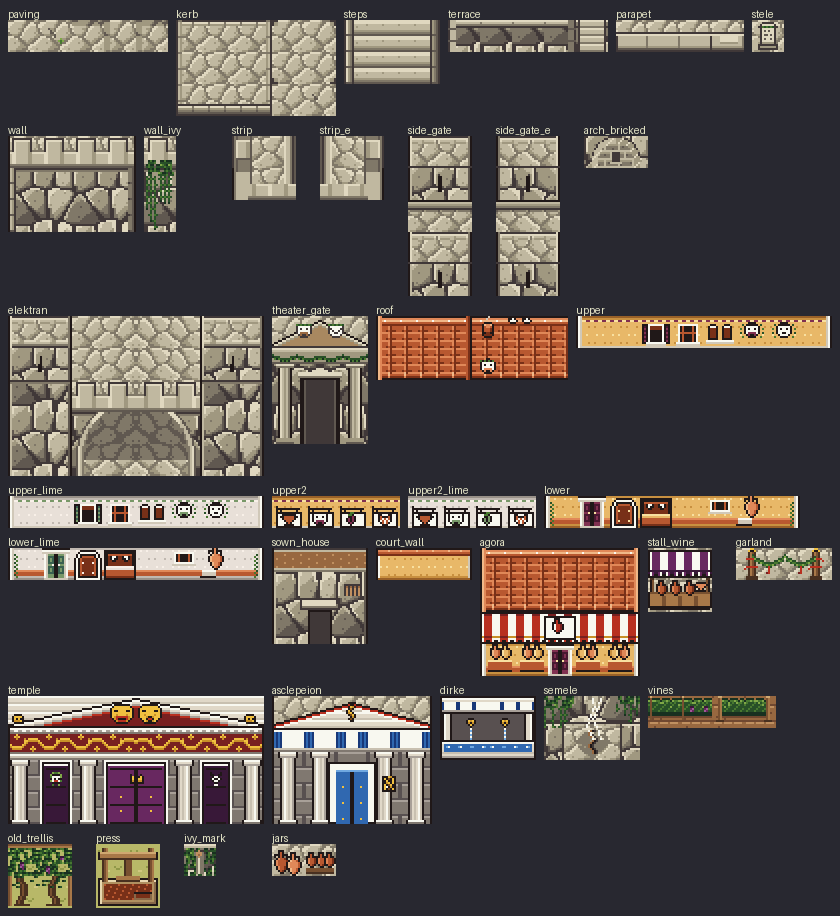
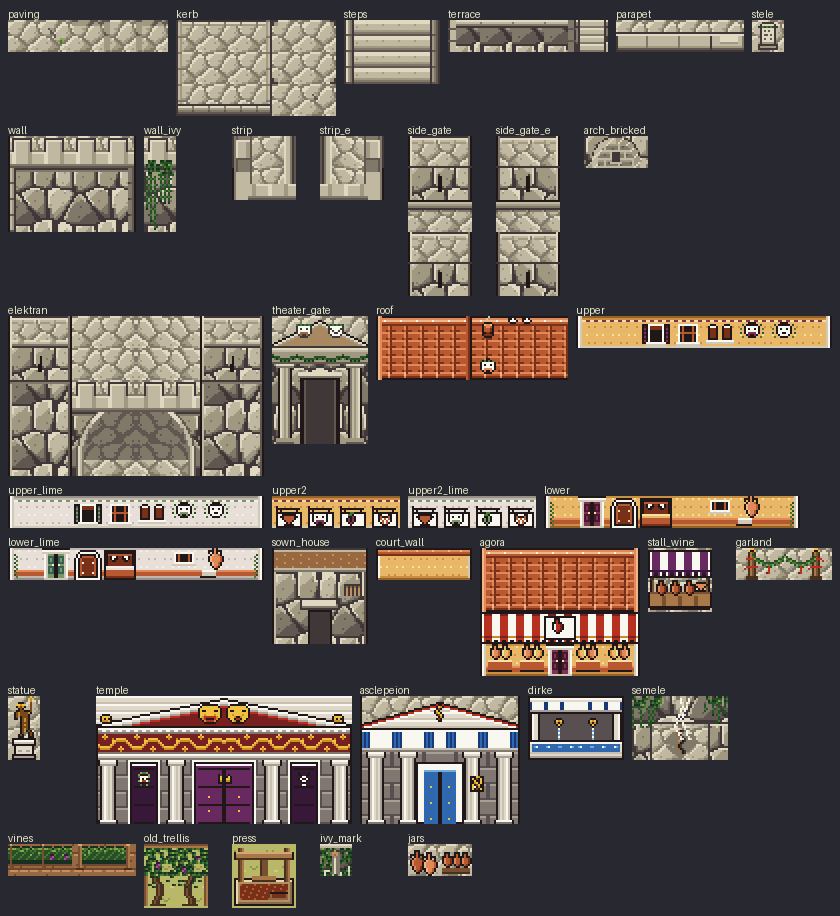
feat(map): finish Thyrsa City's passes and record its seams
The third render pass gives the square its bronze god and drops a stair that led
onto a roof; the city now uses the batch's real walkers. BUILD.md records the
Neistan and Proitid road rows for batches 2 and 7, the arrival tiles and the
hidden items still to place, and TILES_thyrsa.md the three passes and deviations.

Changed region(s): [[0.0, 0.7336, 0.9286, 1.0]]

diff --git a/tools/ichor/maps/thyrsa.py b/tools/ichor/maps/thyrsa.py
@@ -442,7 +442,6 @@ def town(g):
     g.put_part("terrace", "W", 34, 19)
     for x in range(35, 45):
         g.put("terrace", x, 19, cx=1 + x % 2, w=1)
-    g.put_part("terrace", "stair", 36, 19)
     g.put_part("terrace", "E", 45, 19)
     # Polos the old actor, and Euthykles the mask-maker, on the terrace below
     DOORS["actor"] = house(g, 35, 20, ridge=[None, None, "chimney"],
@@ -477,6 +476,7 @@ def town(g):
     g.put("agora", 31, 28)
     # ---- the square: a wine stall, garlands across the main street --------------
     g.put("stall_wine", 22, 19)
+    g.put("statue", 32, 18)                    # the god in bronze
     for y in (21, 33):
         g.put_part("garland", "post_W", 25, y)
         for x in range(26, 30):
@@ -635,27 +635,27 @@ def events():
             flag="FLAG_ICHOR_HIDE_NEISTAN_DRUM"),
         obj("LOCALID_THYRSA_PROITID_GUARD", "OBJ_EVENT_GFX_ICHOR_HOPLITE", 46, 31, S + "ProitidGuard",
             move="MOVEMENT_TYPE_FACE_LEFT"),
-        obj("LOCALID_THYRSA_THEATER_KEEPER", "OBJ_EVENT_GFX_ICHOR_MAN", 44, 18, S + "TheaterKeeper",
+        obj("LOCALID_THYRSA_THEATER_KEEPER", "OBJ_EVENT_GFX_ICHOR_HARVESTER_THYRSA", 44, 18, S + "TheaterKeeper",
             move="MOVEMENT_TYPE_FACE_LEFT"),
         obj("LOCALID_THYRSA_BEGGAR", "OBJ_EVENT_GFX_ICHOR_ELDER_M", 21, 34, S + "Beggar",
             move="MOVEMENT_TYPE_FACE_RIGHT"),
-        obj("LOCALID_THYRSA_CITIZEN_MASKS", "OBJ_EVENT_GFX_ICHOR_WOMAN", 33, 20, S + "CitizenMasks",
+        obj("LOCALID_THYRSA_CITIZEN_MASKS", "OBJ_EVENT_GFX_ICHOR_WOMAN_THYRSA", 33, 20, S + "CitizenMasks",
             move="MOVEMENT_TYPE_FACE_LEFT"),
-        obj("LOCALID_THYRSA_CITIZEN_SEER", "OBJ_EVENT_GFX_ICHOR_MAN", 39, 25, S + "CitizenSeer",
+        obj("LOCALID_THYRSA_CITIZEN_SEER", "OBJ_EVENT_GFX_ICHOR_MERCHANT_THYRSA", 39, 25, S + "CitizenSeer",
             move="MOVEMENT_TYPE_WANDER_LEFT_AND_RIGHT", rx=2),
         obj("LOCALID_THYRSA_CITIZEN_KADMOS", "OBJ_EVENT_GFX_ICHOR_ELDER_F", 23, 24,
             S + "CitizenKadmos", move="MOVEMENT_TYPE_FACE_DOWN"),
-        obj("LOCALID_THYRSA_CITIZEN_IVY", "OBJ_EVENT_GFX_ICHOR_WOMAN", 34, 36, S + "CitizenIvy",
+        obj("LOCALID_THYRSA_CITIZEN_IVY", "OBJ_EVENT_GFX_ICHOR_MOM_THYRSA", 34, 36, S + "CitizenIvy",
             move="MOVEMENT_TYPE_FACE_UP"),
         obj("LOCALID_THYRSA_CITIZEN_CUSHION", "OBJ_EVENT_GFX_ICHOR_YOUTH_M", 21, 20,
             S + "CitizenCushion", move="MOVEMENT_TYPE_WANDER_UP_AND_DOWN", ry=1),
-        obj("LOCALID_THYRSA_CHILD_1", "OBJ_EVENT_GFX_ICHOR_KID_M", 24, 15, S + "Child",
+        obj("LOCALID_THYRSA_CHILD_1", "OBJ_EVENT_GFX_ICHOR_KID_M_THYRSA", 24, 15, S + "Child",
             move="MOVEMENT_TYPE_FACE_RIGHT"),
         obj("LOCALID_THYRSA_CHILD_2", "OBJ_EVENT_GFX_ICHOR_KID_F", 30, 15, S + "Child2",
             move="MOVEMENT_TYPE_FACE_LEFT"),
         obj("LOCALID_THYRSA_OINOPION", "OBJ_EVENT_GFX_ICHOR_VINTNER", 13, 22, S + "Oinopion",
             trainer=True, sight=3),
-        obj("LOCALID_THYRSA_LENAIA", "OBJ_EVENT_GFX_ICHOR_MAENAD", 11, 30, S + "Lenaia",
+        obj("LOCALID_THYRSA_LENAIA", "OBJ_EVENT_GFX_ICHOR_MAENAD_THYRSA", 11, 30, S + "Lenaia",
             trainer=True, sight=2, move="MOVEMENT_TYPE_FACE_LEFT"),
         obj("LOCALID_THYRSA_HEGELOCHOS", "OBJ_EVENT_GFX_ICHOR_ACTOR", 38, 18, S + "Hegelochos",
             trainer=True, sight=2, move="MOVEMENT_TYPE_WALK_LEFT_AND_RIGHT", rx=2),
@@ -696,15 +696,16 @@ def events():
         (SIGNS["town"], "TownSign"), (SIGNS["kadmeia"], "KadmeiaSign"),
         (SIGNS["theater"], "TheaterSign"), (SIGNS["neistan"], "NeistanSign"),
         (SIGNS["proitid"], "ProitidSign"),
-        ((14, 7), "SemeleChamber"), ((16, 7), "SemeleChamber"), ((15, 7), "SemeleCrack"),
-        ((12, 2), "BrickedGate"), ((13, 2), "BrickedGate"), ((42, 2), "BrickedGate"),
+        # (16,7), (22,34) and (12,2) are kept free for the hidden items (BUILD.md, Thyrsa)
+        ((14, 7), "SemeleChamber"), ((15, 7), "SemeleCrack"),
+        ((13, 2), "BrickedGate"), ((42, 2), "BrickedGate"),
         ((43, 2), "BrickedGate"), ((14, 40), "BrickedGate"), ((15, 40), "BrickedGate"),
         ((40, 40), "BrickedGate"), ((41, 40), "BrickedGate"),
         ((10, 26), "MarkedIvy"), ((23, 34), "Dirke"), ((17, 16), "WinePress"),
         ((18, 16), "WinePress"),
         ((13, 7), "DigSemele"), ((10, 33), "DigVineyard"),
         ((27, 4), "TempleFront"), ((28, 4), "TempleFront"),
-        ((22, 42), "Grave"), ((33, 42), "Grave"), ((31, 44), "Herm"),
+        ((22, 42), "Grave"), ((33, 42), "Grave"), ((31, 44), "Herm"), ((32, 19), "Statue"),
     ]
     bg = [{"type": "sign", "x": x, "y": y, "elevation": 0,
            "player_facing_dir": "BG_EVENT_PLAYER_FACING_ANY", "script": S + name}

diff --git a/tools/ichor/art/thyrsa_town.py b/tools/ichor/art/thyrsa_town.py
@@ -552,6 +552,57 @@ def garland():
     return finish(s)
 
 
+def statue():
+    s = struct("statue", "The god in bronze", 1, 2, walk=["T", "X"], ground="pave", section="civic",
+               notes="Dionysus in bronze on a marble plinth in the Agora square: young, ivy-crowned, "
+                     "a thyrsus (a fennel staff tipped with a pinecone) in his raised hand. The "
+                     "top cell draws over the player; give the bottom cell a bg event.")
+    Tl, M = s.T, s.M
+    BR = {"k": "ink", "b": "br", "g": "g0", "G": "g1", "m": "m3"}
+    # the upper body, the head and the thyrsus (top cell)
+    Tl.blit([
+        "           G    ",
+        "          GgG   ",
+        "           g    ",
+        "     kkk   b    ",
+        "    kGgGk  b    ",
+        "    kgbgk  b    ",
+        "     kbk   b    ",
+        "    kkbbkkkb    ",
+        "   kbgbbbbgk    ",
+        "   kbgbbbbk     ",
+        "   kb kbbbk     ",
+        "   kk kbgbk     ",
+        "      kbgbk     ",
+        "      kbbbk     ",
+        "      kbgbk     ",
+        "      kbbbk     ",
+    ], BR, 0, 0)
+    # the ivy crown: two greens are not in the marble group, so the crown is gold
+    Tl.px(4, 4, "g1")
+    Tl.px(8, 4, "g1")
+    # the legs and the plinth (bottom cell)
+    M.blit([
+        "      kbgbk     ",
+        "      kb kbk    ",
+        "      kb  kbk   ",
+        "     kbk  kbk   ",
+        "     kkk  kkk   ",
+        "  kkkkkkkkkkkk  ",
+        "  k1111111111k  ",
+        "  k2222222222k  ",
+        "  kkkkkkkkkkkk  ",
+        "   k33333333k   ",
+        "   k33333333k   ",
+        "   k34433443k   ",
+        "   k33333333k   ",
+        "  kkkkkkkkkkkk  ",
+        "  k4444444444k  ",
+        "  kkkkkkkkkkkk  ",
+    ], {"k": "ink", "b": "br", "g": "g0", "1": "w0", "2": "m2", "3": "m1", "4": "m3"}, 0, 16)
+    return finish(s)
+
+
 def build_houses():
     roof = roof_kit()
     up, ex, lo = upper_storey(), upper_extras(), ground_storey()
@@ -562,4 +613,4 @@ def build_houses():
 
 
 def build_market():
-    return [agora()] + stalls() + [garland()]
+    return [agora()] + stalls() + [garland(), statue()]

diff --git a/design/phase3/TILES_thyrsa.md b/design/phase3/TILES_thyrsa.md
@@ -57,7 +57,7 @@ strips; the hillside outside them is aethos.
 | vine | The vineyards: vines, grapes, trellises, tilled earth; the fig |
 | wood | The press, jars, barrels and stalls: timber, warm limestone, terracotta |
 
-**Tile budget.** 490 of 504 tiles are used. The door animations copy their frames into
+**Tile budget.** 497 of 504 tiles are used. The door animations copy their frames into
 tiles 504-511, so the build fails past 504. Symmetric fronts are mirrored about a tile
 edge, the walls and flags repeat on the 16 or 32 px grid, ivy is an overlay on the wall's
 own tiles, the limewashed houses are free recolors, and tiles within two pixels of
@@ -462,21 +462,33 @@ Ground: all on the street flags.
 
 Parts: `post_W` 0x350, `swag` 0x351, `post_E` 0x352.
 
+### The god in bronze
+
+`statue`, 1 wide by 2 tall. Dionysus in bronze on a marble plinth in the Agora square: young, ivy-crowned, a thyrsus (a fennel staff tipped with a pinecone) in his raised hand. The top cell draws over the player; give the bottom cell a bg event.
+
+```text
+ids     walk
+0x353   T
+0x35B   X
+```
+
+Ground: all on the street flags.
+
 ### Temple of Dionysus, the skene front
 
 `temple`, 8 wide by 4 tall. The crown of Thyrsa, at the head of the main street on the Kadmeia: a temple whose front is a theater's skene. A low pediment with the god's masks, comic and tragic, in gold on wine-red; a frieze of golden vines on red; and three painted doors between grey columns: the comic door (ivy), the palace door (a gold crown on purple, double, the real door) and the satyr door (a goat). Doors: bottom row, columns 3-4 (MB_NON_ANIMATED_DOOR); give both the temple's warp. Lay the broad steps below it, eight cells wide.
 
 ```text
 ids                                               walk
-0x358 0x359 0x35A 0x35B 0x35C 0x35D 0x35E 0x35F   X X X X X X X X
 0x360 0x361 0x362 0x363 0x364 0x365 0x366 0x367   X X X X X X X X
 0x368 0x369 0x36A 0x36B 0x36C 0x36D 0x36E 0x36F   X X X X X X X X
-0x370 0x371 0x372 0x373 0x374 0x375 0x376 0x377   X X X D D X X X
+0x370 0x371 0x372 0x373 0x374 0x375 0x376 0x377   X X X X X X X X
+0x378 0x379 0x37A 0x37B 0x37C 0x37D 0x37E 0x37F   X X X D D X X X
 ```
 
-Door metatiles: 0x373, 0x374.
+Door metatiles: 0x37B, 0x37C.
 
-Parts: `door` 0x373, `door_r` 0x374.
+Parts: `door` 0x37B, `door_r` 0x37C.
 
 ### Thyrsa's Asclepeion
 
@@ -484,17 +496,17 @@ Parts: `door` 0x373, `door_r` 0x374.
 
 ```text
 ids                             walk
-0x378 0x379 0x37A 0x37B 0x37C   X X X X X
 0x380 0x381 0x382 0x383 0x384   X X X X X
 0x388 0x389 0x38A 0x38B 0x38C   X X X X X
-0x390 0x391 0x392 0x393 0x394   X X D X X
+0x390 0x391 0x392 0x393 0x394   X X X X X
+0x398 0x399 0x39A 0x39B 0x39C   X X D X X
 ```
 
 Ground: the street flags at (0,0), (1,0), (2,0), (3,0), (4,0); the rest draws its own.
 
-Door metatiles: 0x392.
+Door metatiles: 0x39A.
 
-Parts: `door` 0x392.
+Parts: `door` 0x39A.
 
 ### The fountain house of Dirke
 
@@ -502,13 +514,13 @@ Parts: `door` 0x392.
 
 ```text
 ids                 walk
-0x37D 0x37E 0x37F   X X X
 0x385 0x386 0x387   X X X
+0x38D 0x38E 0x38F   X X X
 ```
 
 Ground: all on the street flags.
 
-Parts: `basin` 0x386.
+Parts: `basin` 0x38E.
 
 ### Semele's chamber
 
@@ -516,11 +528,11 @@ Parts: `basin` 0x386.
 
 ```text
 ids                 walk
-0x398 0x399 0x39A   X X X
 0x3A0 0x3A1 0x3A2   X X X
+0x3A8 0x3A9 0x3AA   X X X
 ```
 
-Parts: `crack` 0x3A1.
+Parts: `crack` 0x3A9.
 
 ## The vineyards
 
@@ -586,3 +598,118 @@ ids           walk
 Ground: all on the street flags.
 
 <!-- passes: hand-written below this line; thyrsa_build.py keeps it -->
+
+## Thyrsa City, the map
+
+`tools/ichor/maps/thyrsa.py` builds `MAP_THYRSA_CITY` (56×48, aethos + thyrsa): the layout, every
+event in `data/maps/ThyrsaCity/map.json`, and the checks. Its scripts are
+`data/maps/ThyrsaCity/scripts.pory`. The final render is [img/ThyrsaCity.png](img/ThyrsaCity.png);
+screen-sized views along the player's route are [img/ThyrsaCity_screens.png](img/ThyrsaCity_screens.png),
+and in-game screenshots from `tools/ichor/tests/thyrsa_city.sh` are
+[img/ThyrsaCity_ingame.png](img/ThyrsaCity_ingame.png).
+
+![Thyrsa City](img/ThyrsaCity.png)
+
+**The plan.** The Cyclopean walls stand just inside the seam strips (MAP_DESIGN §5), so every edge of
+the map is aethos hillside: olives, pines, cypresses and rock, open only along the three roads.
+- **The south wall** (battlement row 38, face rows 39–40) carries the **Elektran Gate** at columns 24–31:
+  a four-cell arch between two towers, the road up from Route 7 at columns 26–29 (the agreed seam,
+  offset +6). Two bricked gates are in its face at (14–15,40) and (40–41,40), read from the road outside.
+  Outside it: the road, two old graves and a herm in the clearings, olive groves.
+- **The west wall** (columns 8–9) has the **Neistan Gate**, a one-cell passage at (8–9,24) between two
+  towers; the road runs out on rows 23–24. **The east wall** (46–47) has the **Proitid Gate** at (46–47,31),
+  its guard sitting in the arch (shut until batch 7). **The north wall** (rows 0–2) faces the Kadmeia,
+  with two more bricked gates; the one at (12–13,2) is the seventh, with the Rare Candy's niche.
+- **The Kadmeia** (rows 3–11), up the broad stair at columns 26–29 through its parapet and terrace wall
+  (rows 12–13): the Temple of Dionysus at the head of the main street (24–31, 4–7, its palace door at
+  (27–28,7)), framed by the street all the way from the gate; Semele's chamber and Chthonia's house of
+  rough stones in the west garden; Manto's house on the citadel's east edge, her seat on the parapet at
+  (35,12) and Manto on the wall-walk above it at (35,11).
+- **The square** at the city's heart (21–34, 14–24): the wine stall, the bronze god, a garland across the
+  main street, garden plots with an olive and cypresses, the herald, the Kronist by the Agora.
+- **The lower town** inside the gate: the Asclepeion (19–23, 28–31) with the fountain house of Dirke in
+  front of it, the Agora (31–35, 28–31) under its striped awning, the Kantharos and Pindaros on the lane to
+  the Proitid Gate, Eudora's house beside her walled yard with its old tree.
+- **The east hill**: the theater's high gate (42–44, 14–17) on the upper terrace among cypresses, the
+  terrace wall at row 19, Polos and Euthykles on the terrace below.
+- **The vineyards** along the west wall: two blocks of vine rows (the city's tall grass) either side of
+  the lane to the Neistan Gate, the old terrace wall with the marked ivy at (10,26) and the Big Nugget on
+  the wall-walk beyond it (9,28), Staphylos's house and the wine press at their head, the old trellises in
+  the south-west corner where the omen's Thyrsivy stands.
+
+**Checks** (`thyrsa.py` runs them on every build): every warp sits on a door reachable from its
+doorstep; every person stands on open ground the player can reach; every sign can be read; no thyrsa
+metatile within six rows of the south seam or eight columns of the side edges; the south edge open
+exactly at columns 26–29 and the side edges only on their road rows; with both side gates shut, the road
+from Route 7 cannot reach the west or east road (the hillside is closed all round); the scenes' walking
+paths stay open; row 0 is solid.
+
+## Render-and-critique passes
+
+### The tileset
+
+**Pass 1** (the first full draw, about 710 distinct tiles, 666 after the limewash recolors): the art
+read well (the Cyclopean wall, the skene-front temple, the Agora) but was 160 tiles over the 504 budget,
+and the first masonry texture looked like mosaic: thick black joints round flat blocks. *Changed:* a new
+masonry generator with bulging, shaded blocks and thin joints (seed chosen from five renders); street
+flags on a 16 px texture so any prop meets the street; the art drawn in the bottom layer over the flags
+moved up a layer so the flags' tiles stay shared.
+
+**Pass 2** (budget): cut the pieces that cost most for least: the strip-shadow wall ends, a second ivy
+curtain, the barrel, the mask stall, the herm on the flags, the drain grate, the ivy cell in the upper
+storey, the fig (an aethos olive stands over Eudora's yard instead); Semele's chamber and Chthonia's house
+redrawn in the city wall's own masonry, phased to the map, so they share its tiles; the temple's side
+doors share one painted base; the fountain made symmetric; tiles within 3 px merged (Emporion merges at
+2; the masonry speckle is noise). Porytiles still stored the limewashed parts separately: it sorts each
+palette's colors by value, so the lime and vine-green colors were retuned to sort in step with the ochre
+and wine ones, slot for slot (thyrsa_lib.py asserts it). 490 tiles.
+
+**Pass 3** (the map's needs): mirrored east-wall pieces (free), and the bronze god for the square,
+whose emptiness was the map's weakest point. **497 of 504 tiles.** No animated doors are used anywhere
+in Thyrsa (every door is `MB_NON_ANIMATED_DOOR`), so the door-animation tiles 504–511 are never written.
+
+### The map
+
+**Pass 1** ([img/ThyrsaCity_pass1.png](img/ThyrsaCity_pass1.png)): the bones worked (the walls inside
+the seam strips, the gate on the road's axis, the temple framed by the main street, the vineyards' rows),
+but the inside was one sea of flags: the square, the street and the lanes merged into a 25×24 field with
+nothing in it. The outside olives stood in a grid, and leftover cells were filled with evenly scattered
+rocks; several edge cells under olive crowns were left walkable (the hillside leaked). The theater's gate
+was unreachable behind its own sign. *Changed:* the flags now cover only the streets, the square and the
+forecourts; everything else became gardens with kerbed edges: the square's corner plots, the Asclepeion's
+grove, the garden behind the Agora, the theater's grove of cypresses. The outside forest is placed in a
+shuffled order, olives, pines and cypresses mixed, and every hillside cell is solid. The sign moved.
+
+**Pass 2** ([img/ThyrsaCity_pass2.png](img/ThyrsaCity_pass2.png)): the districts now read apart and
+every 15×10 view has a landmark ([img/ThyrsaCity_screens.png](img/ThyrsaCity_screens.png)). Still weak:
+the square's middle, a wide plain of flags between the stall and the lower terrace; a stair in the east
+terrace wall that led onto Polos's roof; the approach outside the gate was bare grass. *Changed:* the
+bronze god in the square, the dead-end stair removed (the terraces join round the square's east side),
+graves and a herm along the road outside the gate (the dead buried outside the walls).
+
+**Pass 3** (the final, [img/ThyrsaCity.png](img/ThyrsaCity.png), and in game,
+[img/ThyrsaCity_ingame.png](img/ThyrsaCity_ingame.png)): played through headlessly: the welcome inside
+the gate, the tour, Manto, the theater keeper, the Neistan Gate before and after, Alethea going west, the
+omen's visitor. In game the flags are busy but read as an old paved city, the walls and towers carry the
+screen, and the vineyards' rows read as vines. Left for a later pass: Eudora's yard reads as two plain
+walls with a tree between (a small wall-corner piece would close it); Semele's chamber is a grey ruin
+that could take more ivy; the smoke from its crack is drawn still (SCRIPT.md Part 10 asks for a 2-frame
+animation, which needs a tileset callback in `src/tileset_anims.c`).
+
+## Deviations
+
+- **The theater keeper** stops the player at the high gate's doorstep before the laurel (beat 32's setup);
+  so the workers sweeping the cavea before the Dionysia (Part 2, the theater) are only met if the scenes
+  agent starts the Dionysia from a trigger inside rather than on entry. His name box reads KEEPER: "THEATER
+  KEEPER" is 66 px in the name box's font, over its 64.
+- **The Proitid Gate** is drawn open but its guard sits in the arch, so it is shut until batch 7.
+- **The Neistan Gate's drum** rolls out of the arch and one cell aside onto the hillside, and is gone
+  the next time the map loads (it carries its hide flag).
+- **The Neistan road leaves on two rows** (23–24) through a one-cell gate: a Cyclopean gate is narrow.
+- **Manto's omens** (ICHOR_STUB_OMENS): she gives the rare visitor once the Dionysia is over until it is
+  met, otherwise the swarm or the fog at random; only the visitor has an effect here.
+- **Alethea's tablet reading** checks the prophecy range by index (`FLAG_ICHOR_PROPHECY_START+3` found,
+  `+11` read) until the engine names `FLAG_ICHOR_PROPHECY_3` and `_3_READ` (ICHOR_STUB_DIG).
+- **One line of my own each** for the gatekeeper after the welcome, the theater keeper after the laurel and
+  after the play, the beggar after he's helped, a fifth citizen ("Laurel-holders sit at the front. I've no
+  laurel. I've a cushion."), the wine press, the bronze god, the temple front, the graves and the herm.

diff --git a/design/phase3/BUILD.md b/design/phase3/BUILD.md
@@ -85,11 +85,13 @@ This session has registered every batch 1 map with `tools/ichor/new_map.py`, so 
 | Eleusa's north edge → Route 6's south edge | `MAP_ELEUSA_VILLAGE` (50×40, aethos + eleusa, world-act1's commit 0284b88d32) is open at y = 0 in columns 44–47: the road is 45–46, grass verges at 44 and 47. Eleusa's six rows nearest the seam are aethos-only and have no vines; the vines are on Route 6, just past the seam. Route 6's road meets its south edge in the kithairon agent's choice of four columns *r*…*r*+3 (verge, road, road, verge), with Route 6's own seam rows aethos-only. Offsets follow from *r*: Eleusa `up` to Route 6 with offset 44 − *r*; Route 6 `down` to Eleusa with offset *r* − 44. This session adds both connections at integration, once Eleusa and Route 6 are on one branch. | world-act1 (columns), kithairon (*r*) |
 | Route 6 ↔ Eleutherai ↔ Mt. Kithairon ↔ Route 7 | the kithairon agent's choice, recorded here | — |
 | Route 7's north edge → Thyrsa's Elektran Gate | Route 7's road leaves its north edge at columns 20–23; Thyrsa's Elektran Gate opens on its south edge at columns 26–29. The connection is `up` from Route 7 with offset −6 (Thyrsa's `down` with offset +6). Both rows at the seam are aethos-only. The kithairon and thyrsa agents may move it together, and record the change here. | kithairon, thyrsa |
-| Thyrsa's west edge (the Neistan Gate) → Route 8 | batch 2. Draw the gate and the road's first columns; record them here | — |
+| Thyrsa's west edge (the Neistan Gate) → Route 8 | batch 2. Thyrsa's west edge is open only at rows 23–24, where the Neistan road (aethos path) runs out through columns 0–7 (aethos-only) from the gate's one-cell passage at (8–9, 24). Every other row of the west edge is hillside (trees, rock). Route 8's east edge should open its road on two rows *q*, *q*+1; the connection is then `left` from Thyrsa with offset *q* − 23 (Route 8's `right` with offset 23 − *q*). Thyrsa adds no connection until Route 8 exists. The gate opens with the Girdle (`FLAG_ICHOR_NEISTAN_DRUM_MOVED`). | thyrsa (rows) |
 | Eleusa's east edge → Route 15 | batch 4. Eleusa is open at x = 49 in rows 24–27; a wall runs down x = 48 with its gap at (48,25), where a hoplite stands in Act I. This session claimed his hide flag, `FLAG_ICHOR_HIDE_ELEUSA_EAST_HOPLITE` (bank 0x10C), and puts it on his object in batch 4, once Eleusa is on main | world-act1 |
-| Thyrsa's east edge (the Proitid Gate) → Euboia | batch 7. Draw the gate shut, with its guard | — |
+| Thyrsa's east edge (the Proitid Gate) → Euboia | batch 7. The Proitid road runs out through columns 48–55 (aethos-only) on rows 30–31 from the gate's passage at (46–47, 31); the east edge is open only on those rows. For now its guard sits in the passage (`LOCALID_THYRSA_PROITID_GUARD`, (46,31)), so the gate is shut; batch 7 moves him aside (or gives him a hide flag) and adds the `right` connection with offset *q* − 30 for Euboia's road rows *q*, *q*+1. | thyrsa (rows) |
 
 Record arrival tiles for scripted warps here as you choose them.
+
+- **Thyrsa City** (thyrsa): the gatekeeper's welcome fires on row 37, columns 26–29, just inside the Elektran Gate. The theater's high gate is warp 11 at (43,17), reached from (43,18); warp 12 at (28,7) is the temple's east door leaf and leads to the temple's warp 0 like warp 3. Every door is `MB_NON_ANIMATED_DOOR`. Thyrsa's **hidden items**, not placed (vanilla flags): the Cell Battery in Semele's chamber's ash (16,7), the Heart Scale in the fountain house of Dirke (22,34), the Rare Candy in the niche of the Kadmeia's bricked-up seventh gate (12,2).
 
 **Door warp ids are fixed now**, so the outdoor and interior agents can wire both ends without waiting for each other. On an outdoor map, warp *N* is the door in this table. In every interior, warp 0 (and 1, for a two-tile doorway) is the way out, to the outdoor map's warp *N*. Add any further warps after these.
 
